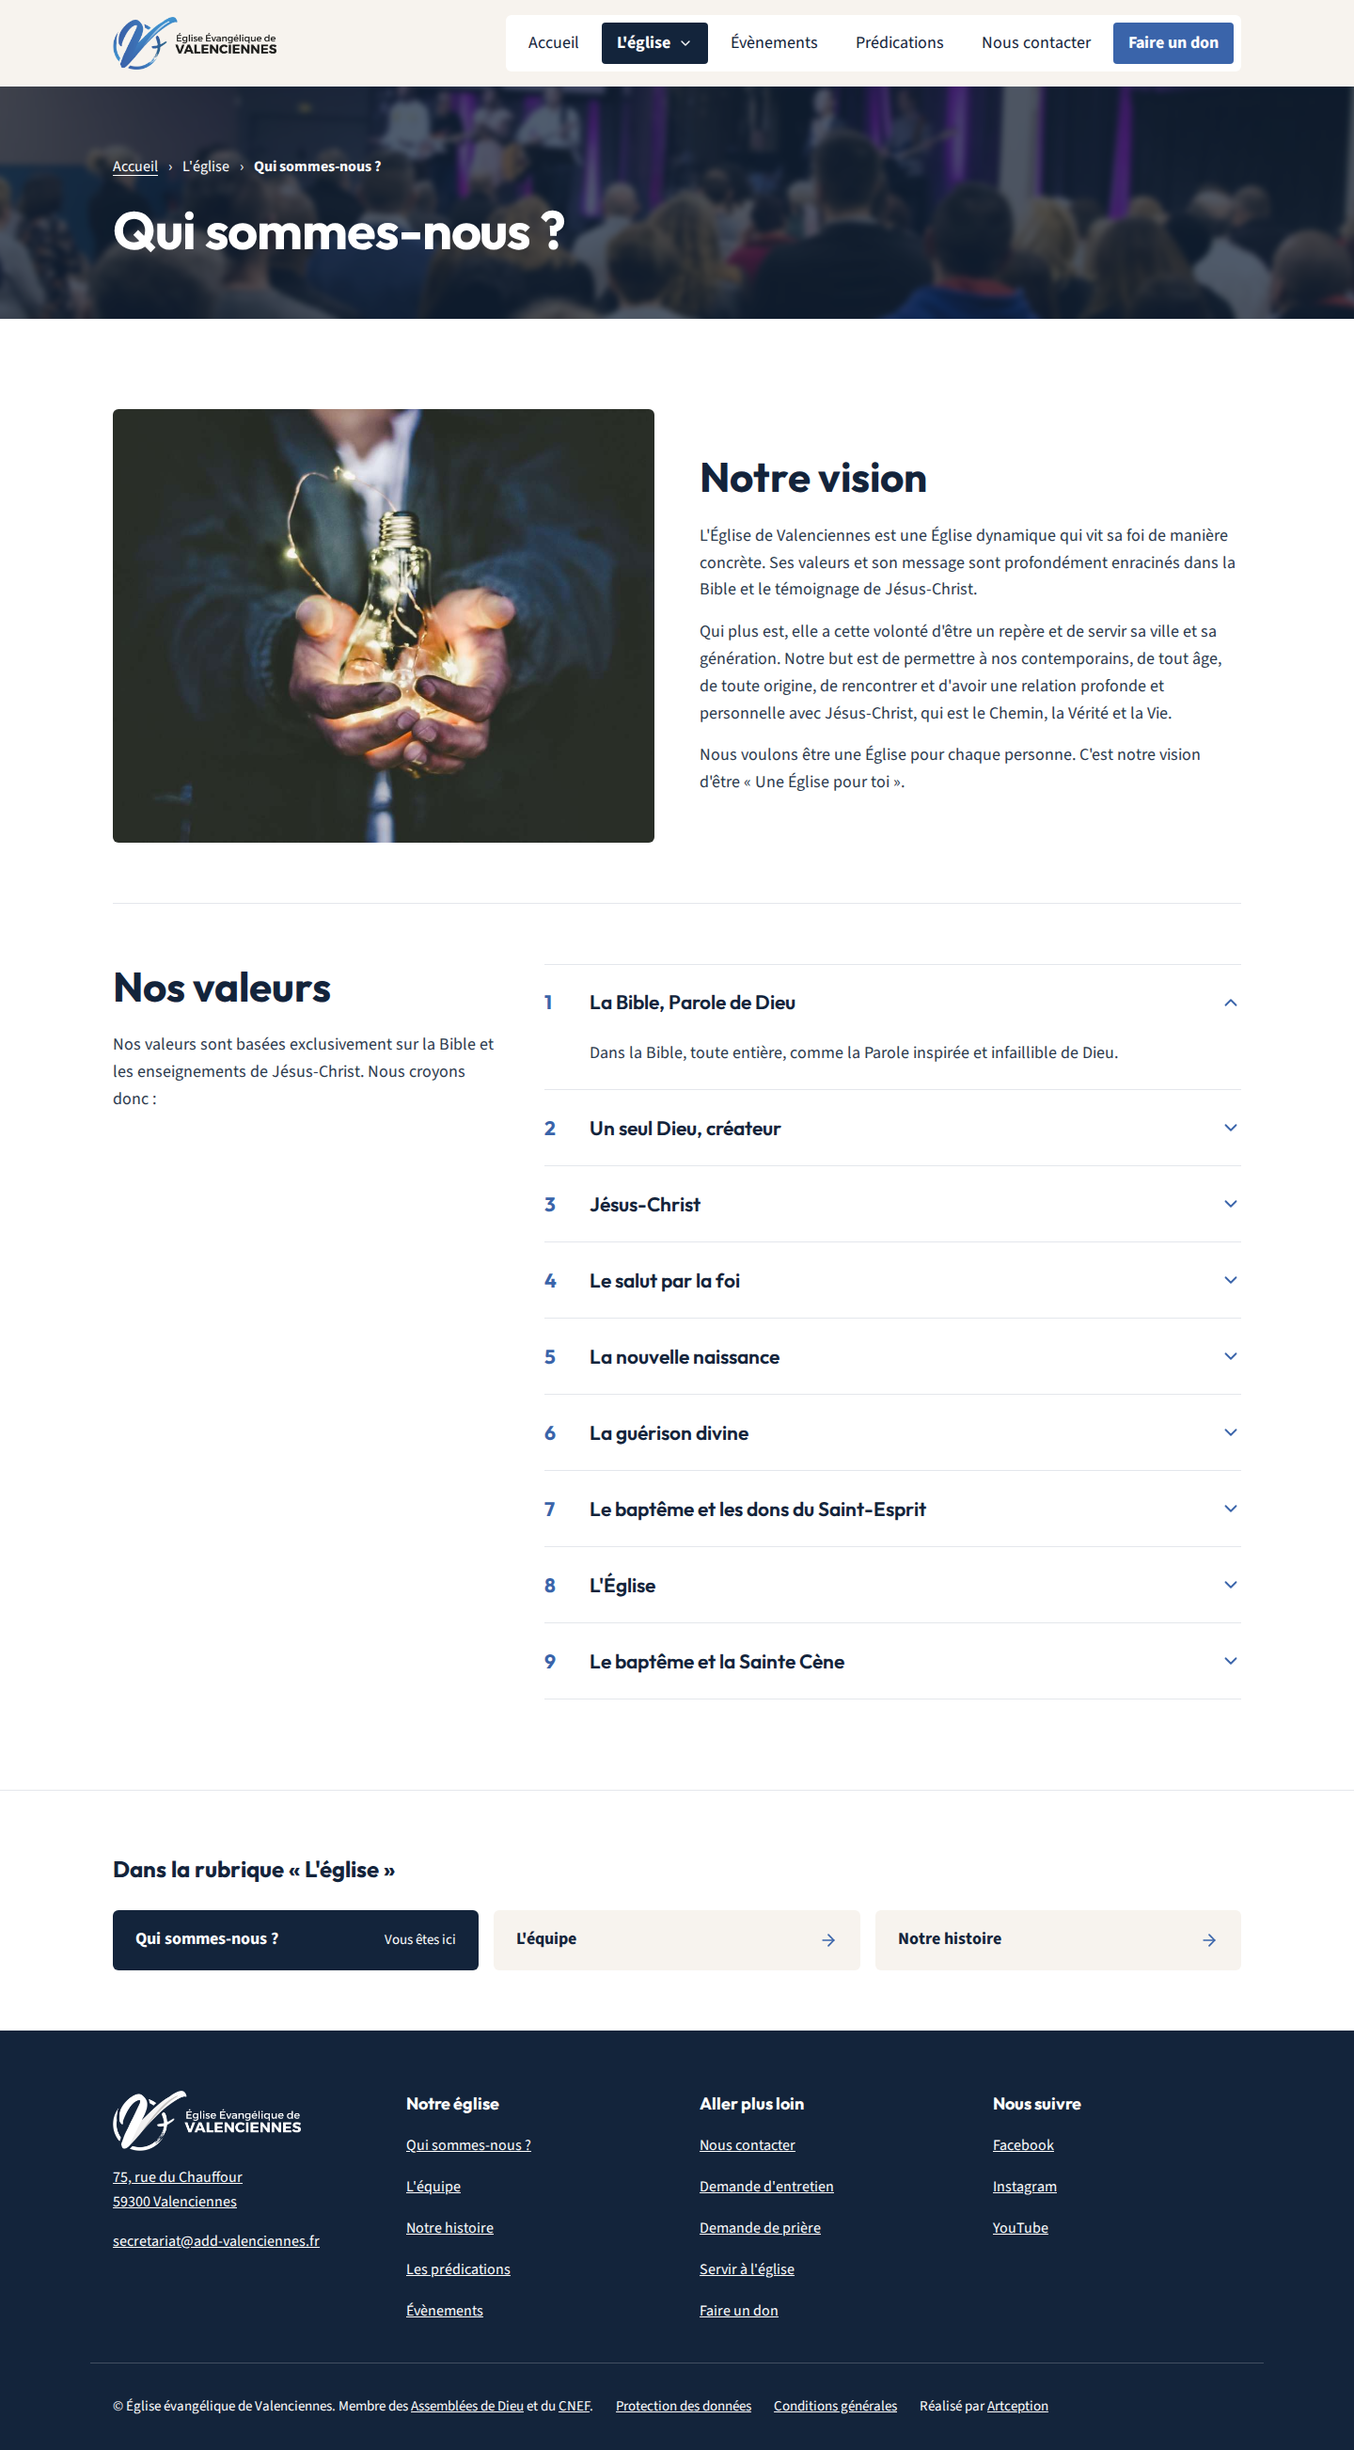
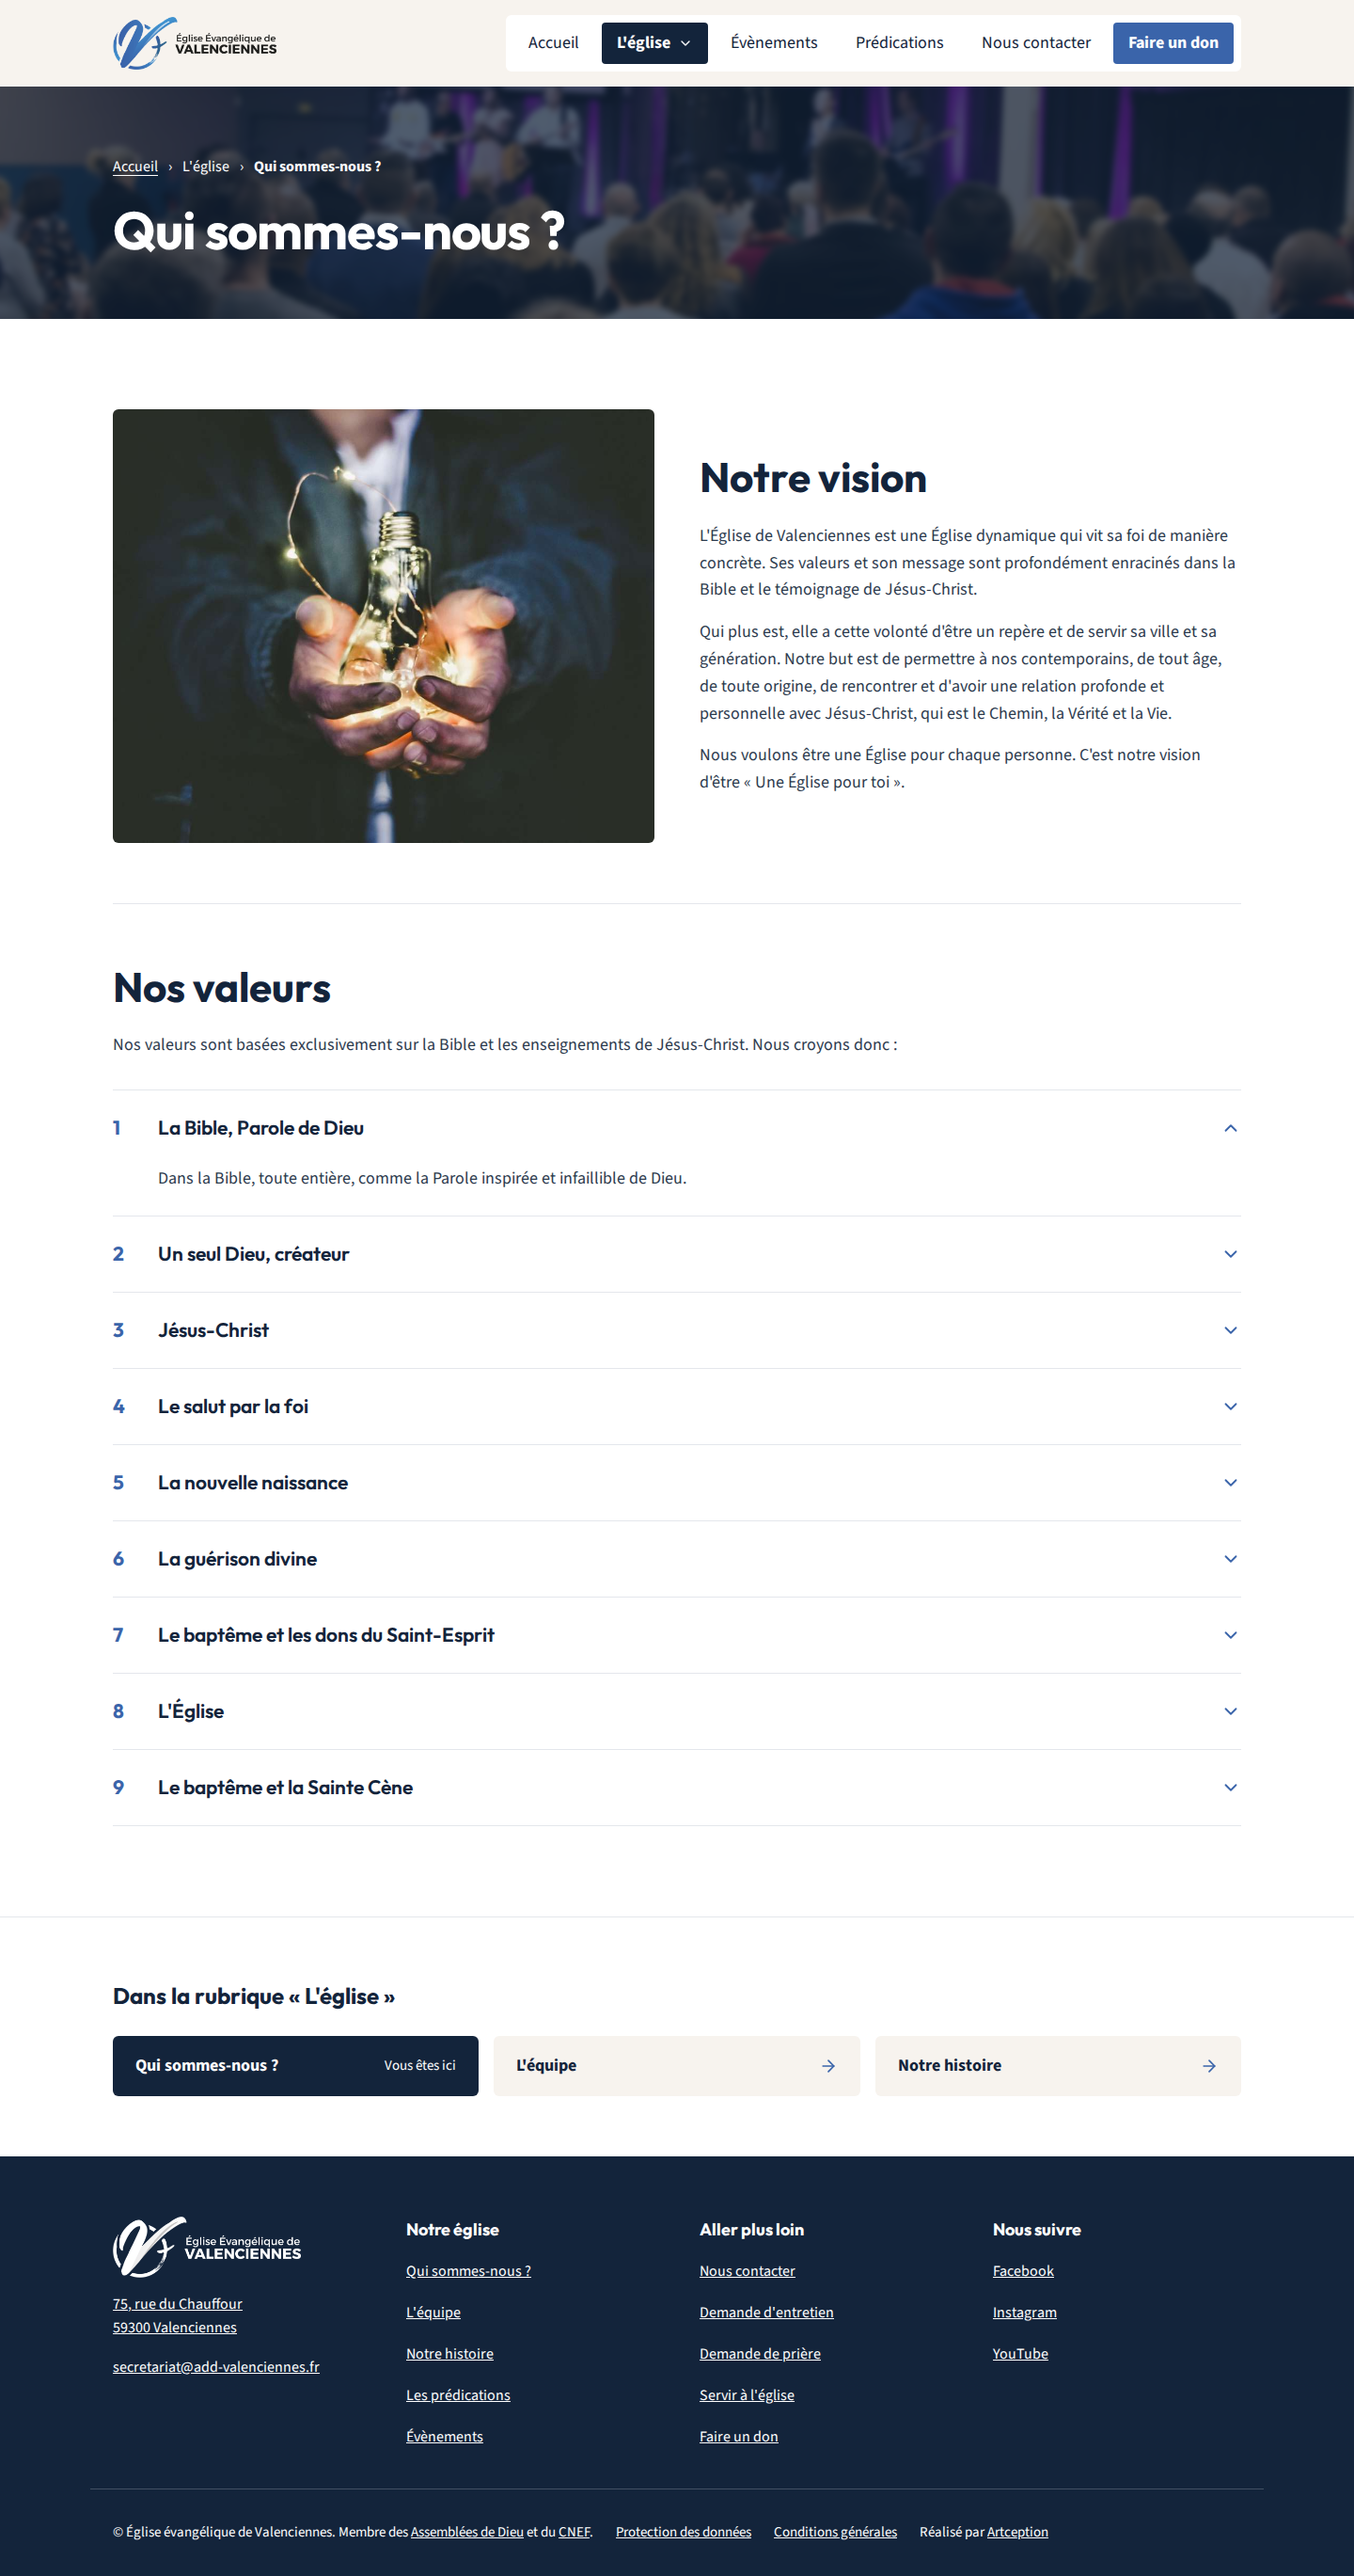
Put the values title above the list and record the target screens
The owner asked for the "Nos valeurs" title and introduction above the
accordion instead of beside it on computers. DESIGN.md now lists the
nine screen sizes the validated pages are prototyped on.

diff --git a/design/maquettes/church/who-we-are-desktop.html b/design/maquettes/church/who-we-are-desktop.html
@@ -68,12 +68,10 @@ summary{list-style:none;cursor:pointer}summary::-webkit-details-marker{display:n
   <!-- Values -->
   <section style="background: #ffffff">
     <div style="max-width: 1200px; margin: 0 auto; padding: 0 24px 96px">
-      <div style="border-top: 1px solid #e4e7ec; padding-top: 64px; display: flex; flex-wrap: wrap; gap: 48px">
-        <div style="flex: 1 1 320px; min-width: 0">
-          <h2 style="margin: 0 0 24px; font-family: 'Outfit', system-ui, sans-serif; font-size: 44px; line-height: 1.1; color: #13243b">Nos valeurs</h2>
-          <p style="margin: 0">Nos valeurs sont basées exclusivement sur la Bible et les enseignements de Jésus-Christ. Nous croyons donc :</p>
-        </div>
-        <div style="flex: 2 1 560px; min-width: 0; border-top: 1px solid #e4e7ec">
+      <div style="border-top: 1px solid #e4e7ec; padding-top: 64px">
+        <h2 style="margin: 0 0 24px; font-family: 'Outfit', system-ui, sans-serif; font-size: 44px; line-height: 1.1; color: #13243b">Nos valeurs</h2>
+        <p style="margin: 0 0 32px; max-width: 880px">Nos valeurs sont basées exclusivement sur la Bible et les enseignements de Jésus-Christ. Nous croyons donc :</p>
+        <div style="border-top: 1px solid #e4e7ec">
         <details open style="border-bottom: 1px solid #e4e7ec"><summary style="display: flex; align-items: center; gap: 16px; min-height: 64px; padding: 8px 0"><span aria-hidden="true" style="flex: none; width: 32px; font-family: 'Outfit', system-ui, sans-serif; font-size: 21px; font-weight: 700; color: #3a64aa">1</span><span style="flex: 1; font-family: 'Outfit', system-ui, sans-serif; font-size: 21px; font-weight: 600; color: #13243b">La Bible, Parole de Dieu</span><svg class="chevron" width="22" height="22" viewBox="0 0 24 24" fill="none" stroke="#3a64aa" stroke-width="2" stroke-linecap="round" stroke-linejoin="round" aria-hidden="true" style="flex: none"><polyline points="6 9 12 15 18 9"></polyline></svg></summary><p style="margin: 0; padding: 0 0 24px 48px">Dans la Bible, toute entière, comme la Parole inspirée et infaillible de Dieu.</p></details>
         <details style="border-bottom: 1px solid #e4e7ec"><summary style="display: flex; align-items: center; gap: 16px; min-height: 64px; padding: 8px 0"><span aria-hidden="true" style="flex: none; width: 32px; font-family: 'Outfit', system-ui, sans-serif; font-size: 21px; font-weight: 700; color: #3a64aa">2</span><span style="flex: 1; font-family: 'Outfit', system-ui, sans-serif; font-size: 21px; font-weight: 600; color: #13243b">Un seul Dieu, créateur</span><svg class="chevron" width="22" height="22" viewBox="0 0 24 24" fill="none" stroke="#3a64aa" stroke-width="2" stroke-linecap="round" stroke-linejoin="round" aria-hidden="true" style="flex: none"><polyline points="6 9 12 15 18 9"></polyline></svg></summary><p style="margin: 0; padding: 0 0 24px 48px">Dans le Dieu unique et Éternel, créateur de l'univers et de l'homme.</p></details>
         <details style="border-bottom: 1px solid #e4e7ec"><summary style="display: flex; align-items: center; gap: 16px; min-height: 64px; padding: 8px 0"><span aria-hidden="true" style="flex: none; width: 32px; font-family: 'Outfit', system-ui, sans-serif; font-size: 21px; font-weight: 700; color: #3a64aa">3</span><span style="flex: 1; font-family: 'Outfit', system-ui, sans-serif; font-size: 21px; font-weight: 600; color: #13243b">Jésus-Christ</span><svg class="chevron" width="22" height="22" viewBox="0 0 24 24" fill="none" stroke="#3a64aa" stroke-width="2" stroke-linecap="round" stroke-linejoin="round" aria-hidden="true" style="flex: none"><polyline points="6 9 12 15 18 9"></polyline></svg></summary><p style="margin: 0; padding: 0 0 24px 48px">En Jésus-Christ, dans sa naissance miraculeuse, dans sa vie sans péché, dans ses miracles, dans sa mort volontaire pour tous les hommes, dans sa résurrection corporelle, dans son ascension à la droite du Père, dans son retour prochain et dans sa divinité.</p></details>

diff --git a/design/DESIGN.md b/design/DESIGN.md
@@ -103,6 +103,18 @@ Rules:
 
 The HTML files open in any browser without the canvas, and link to each other; each folder has its own `images/`.
 
+## Target screens
+
+The validated pages are also built as clickable, scrollable prototypes (page "Validés" of the canvas) on the most common screen sizes. Test the site on these before release:
+
+| Device | Sizes (CSS px) | Header |
+|---|---|---|
+| Computer | 1920 × 1080, 1536 × 864, 1366 × 768 | Full menu, "L'église" opens a drop-down |
+| Tablet | 1280 × 800 (landscape), 820 × 1180, 768 × 1024 | Full menu at 1280; "Menu" button and full-screen menu below |
+| Phone | 412 × 915, 390 × 844, 360 × 800 | "Menu" button and full-screen menu |
+
+On the home page the department tiles and "Découvrir les départements" lead to "L'équipe", since the departments have no page of their own yet.
+
 ## Site structure
 
 Changes to the live site's structure, decided by the owner:
